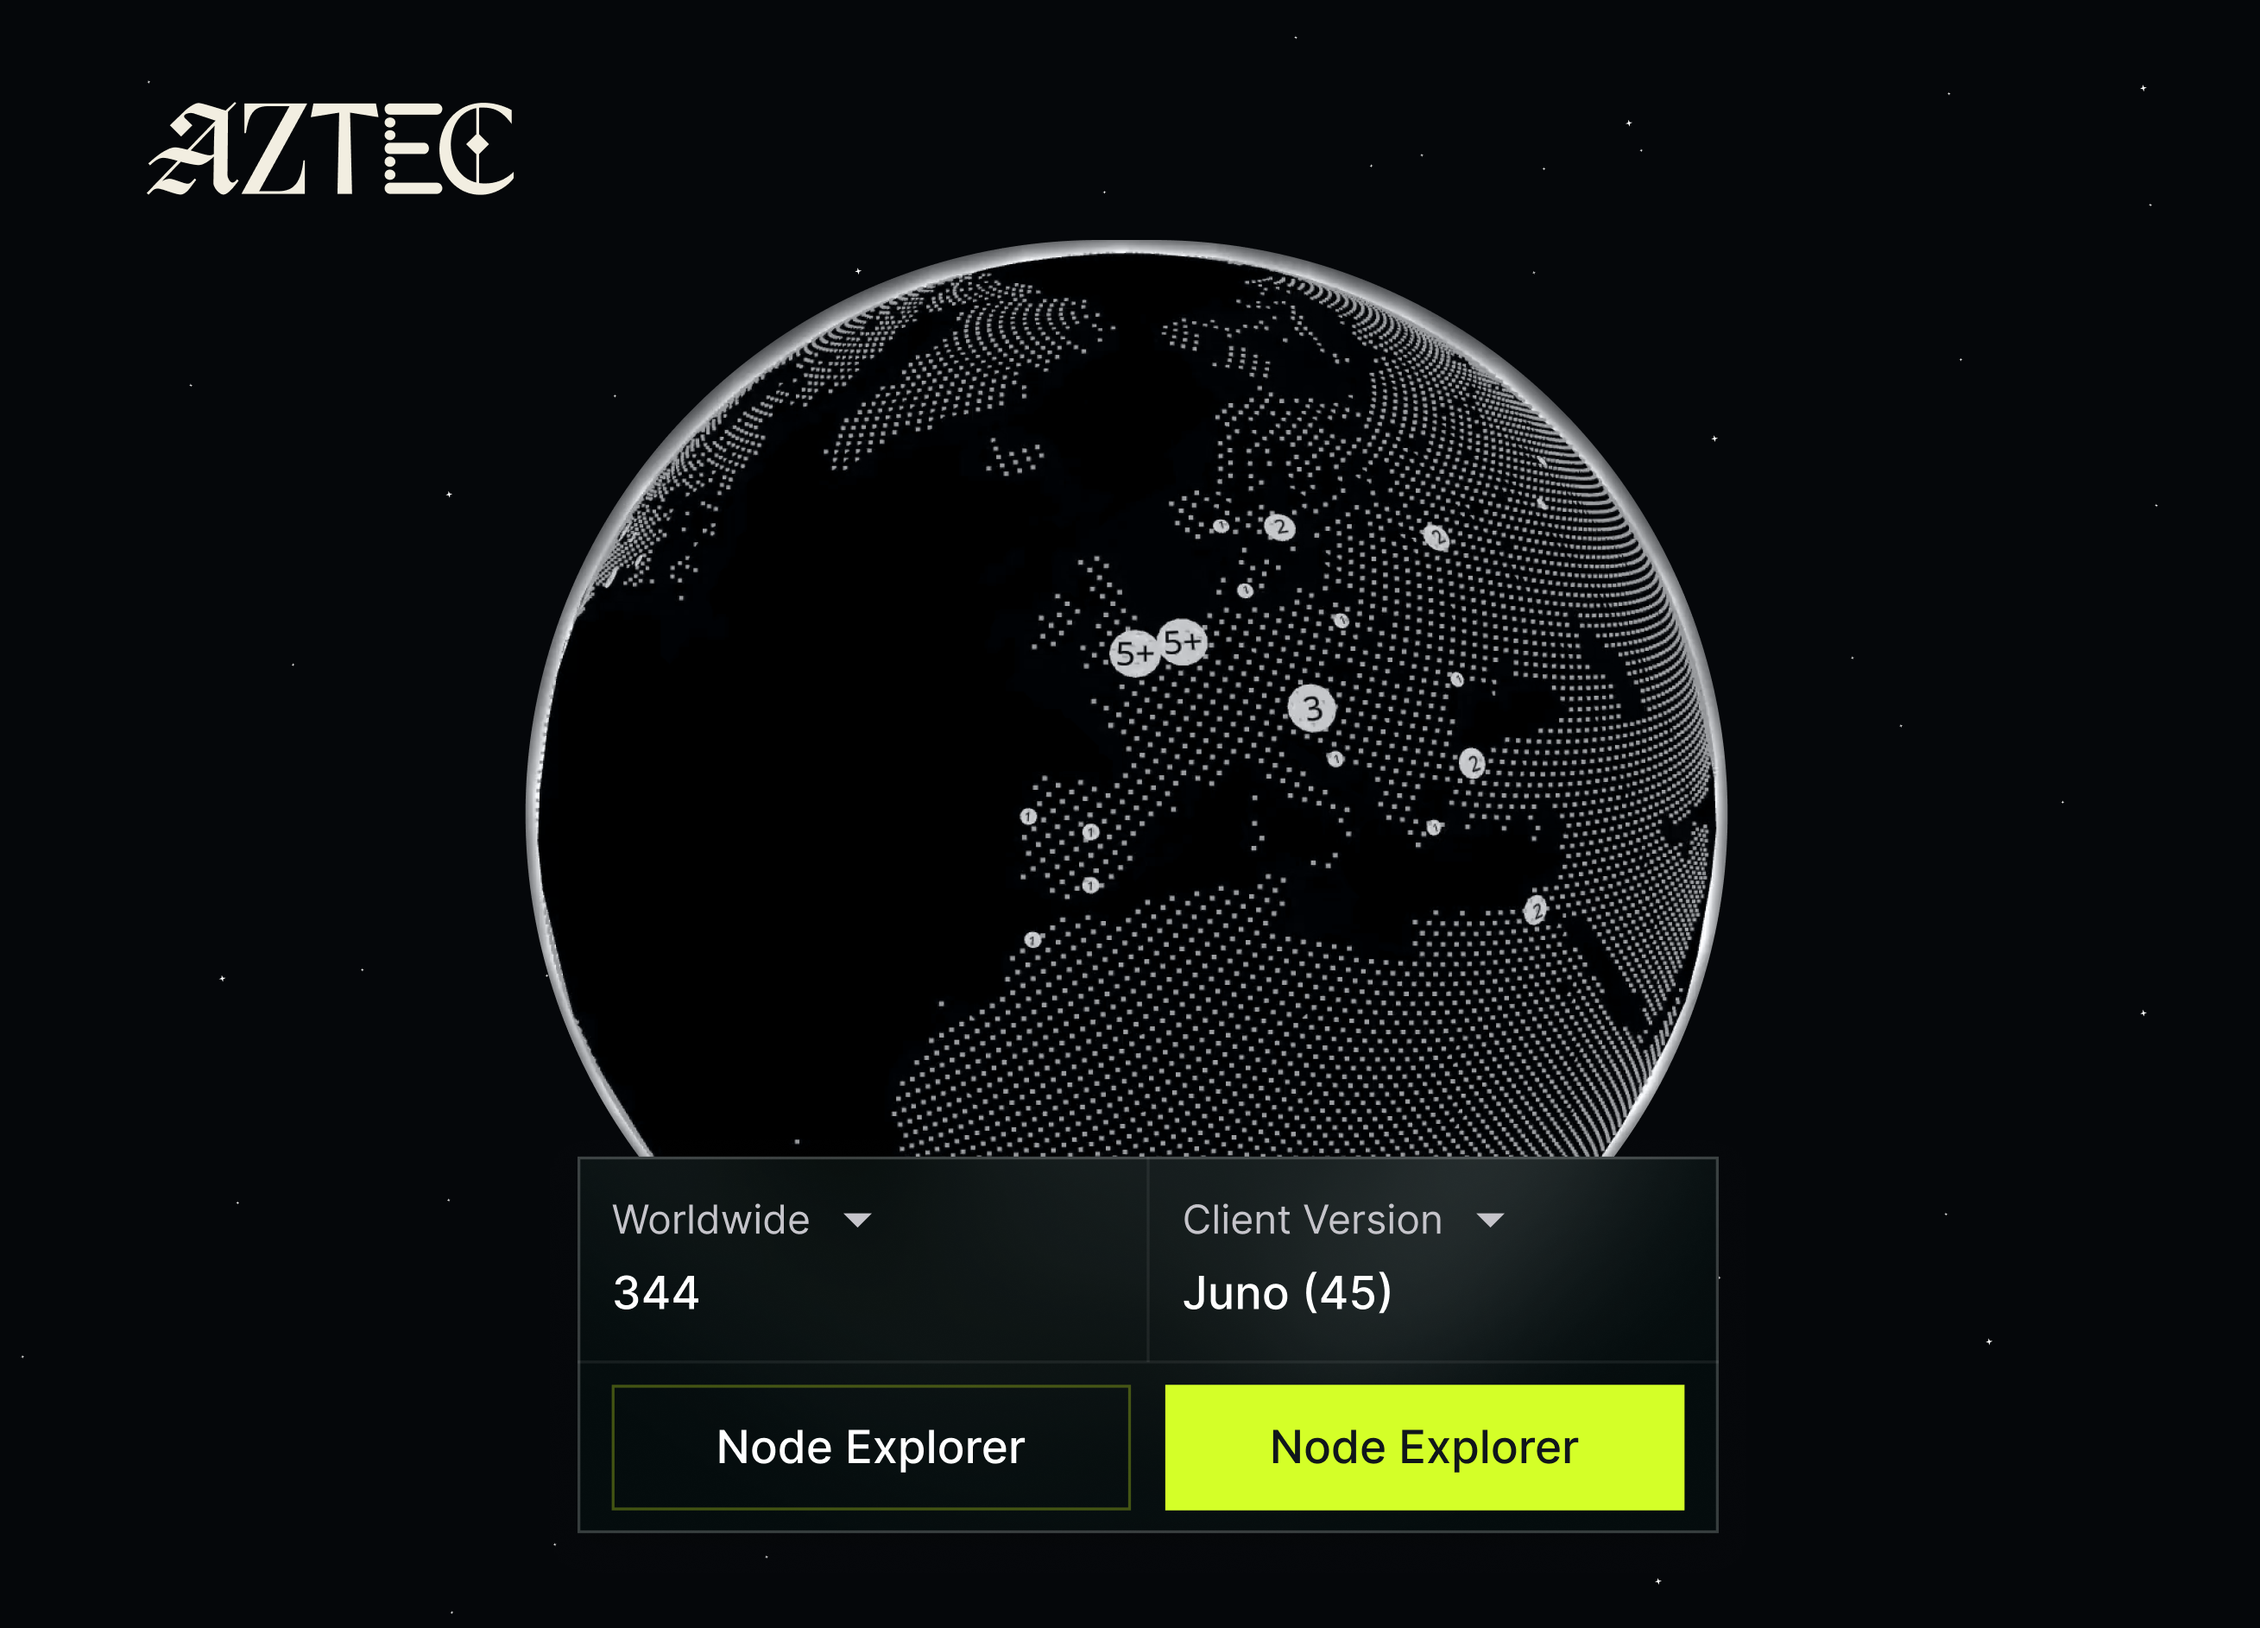
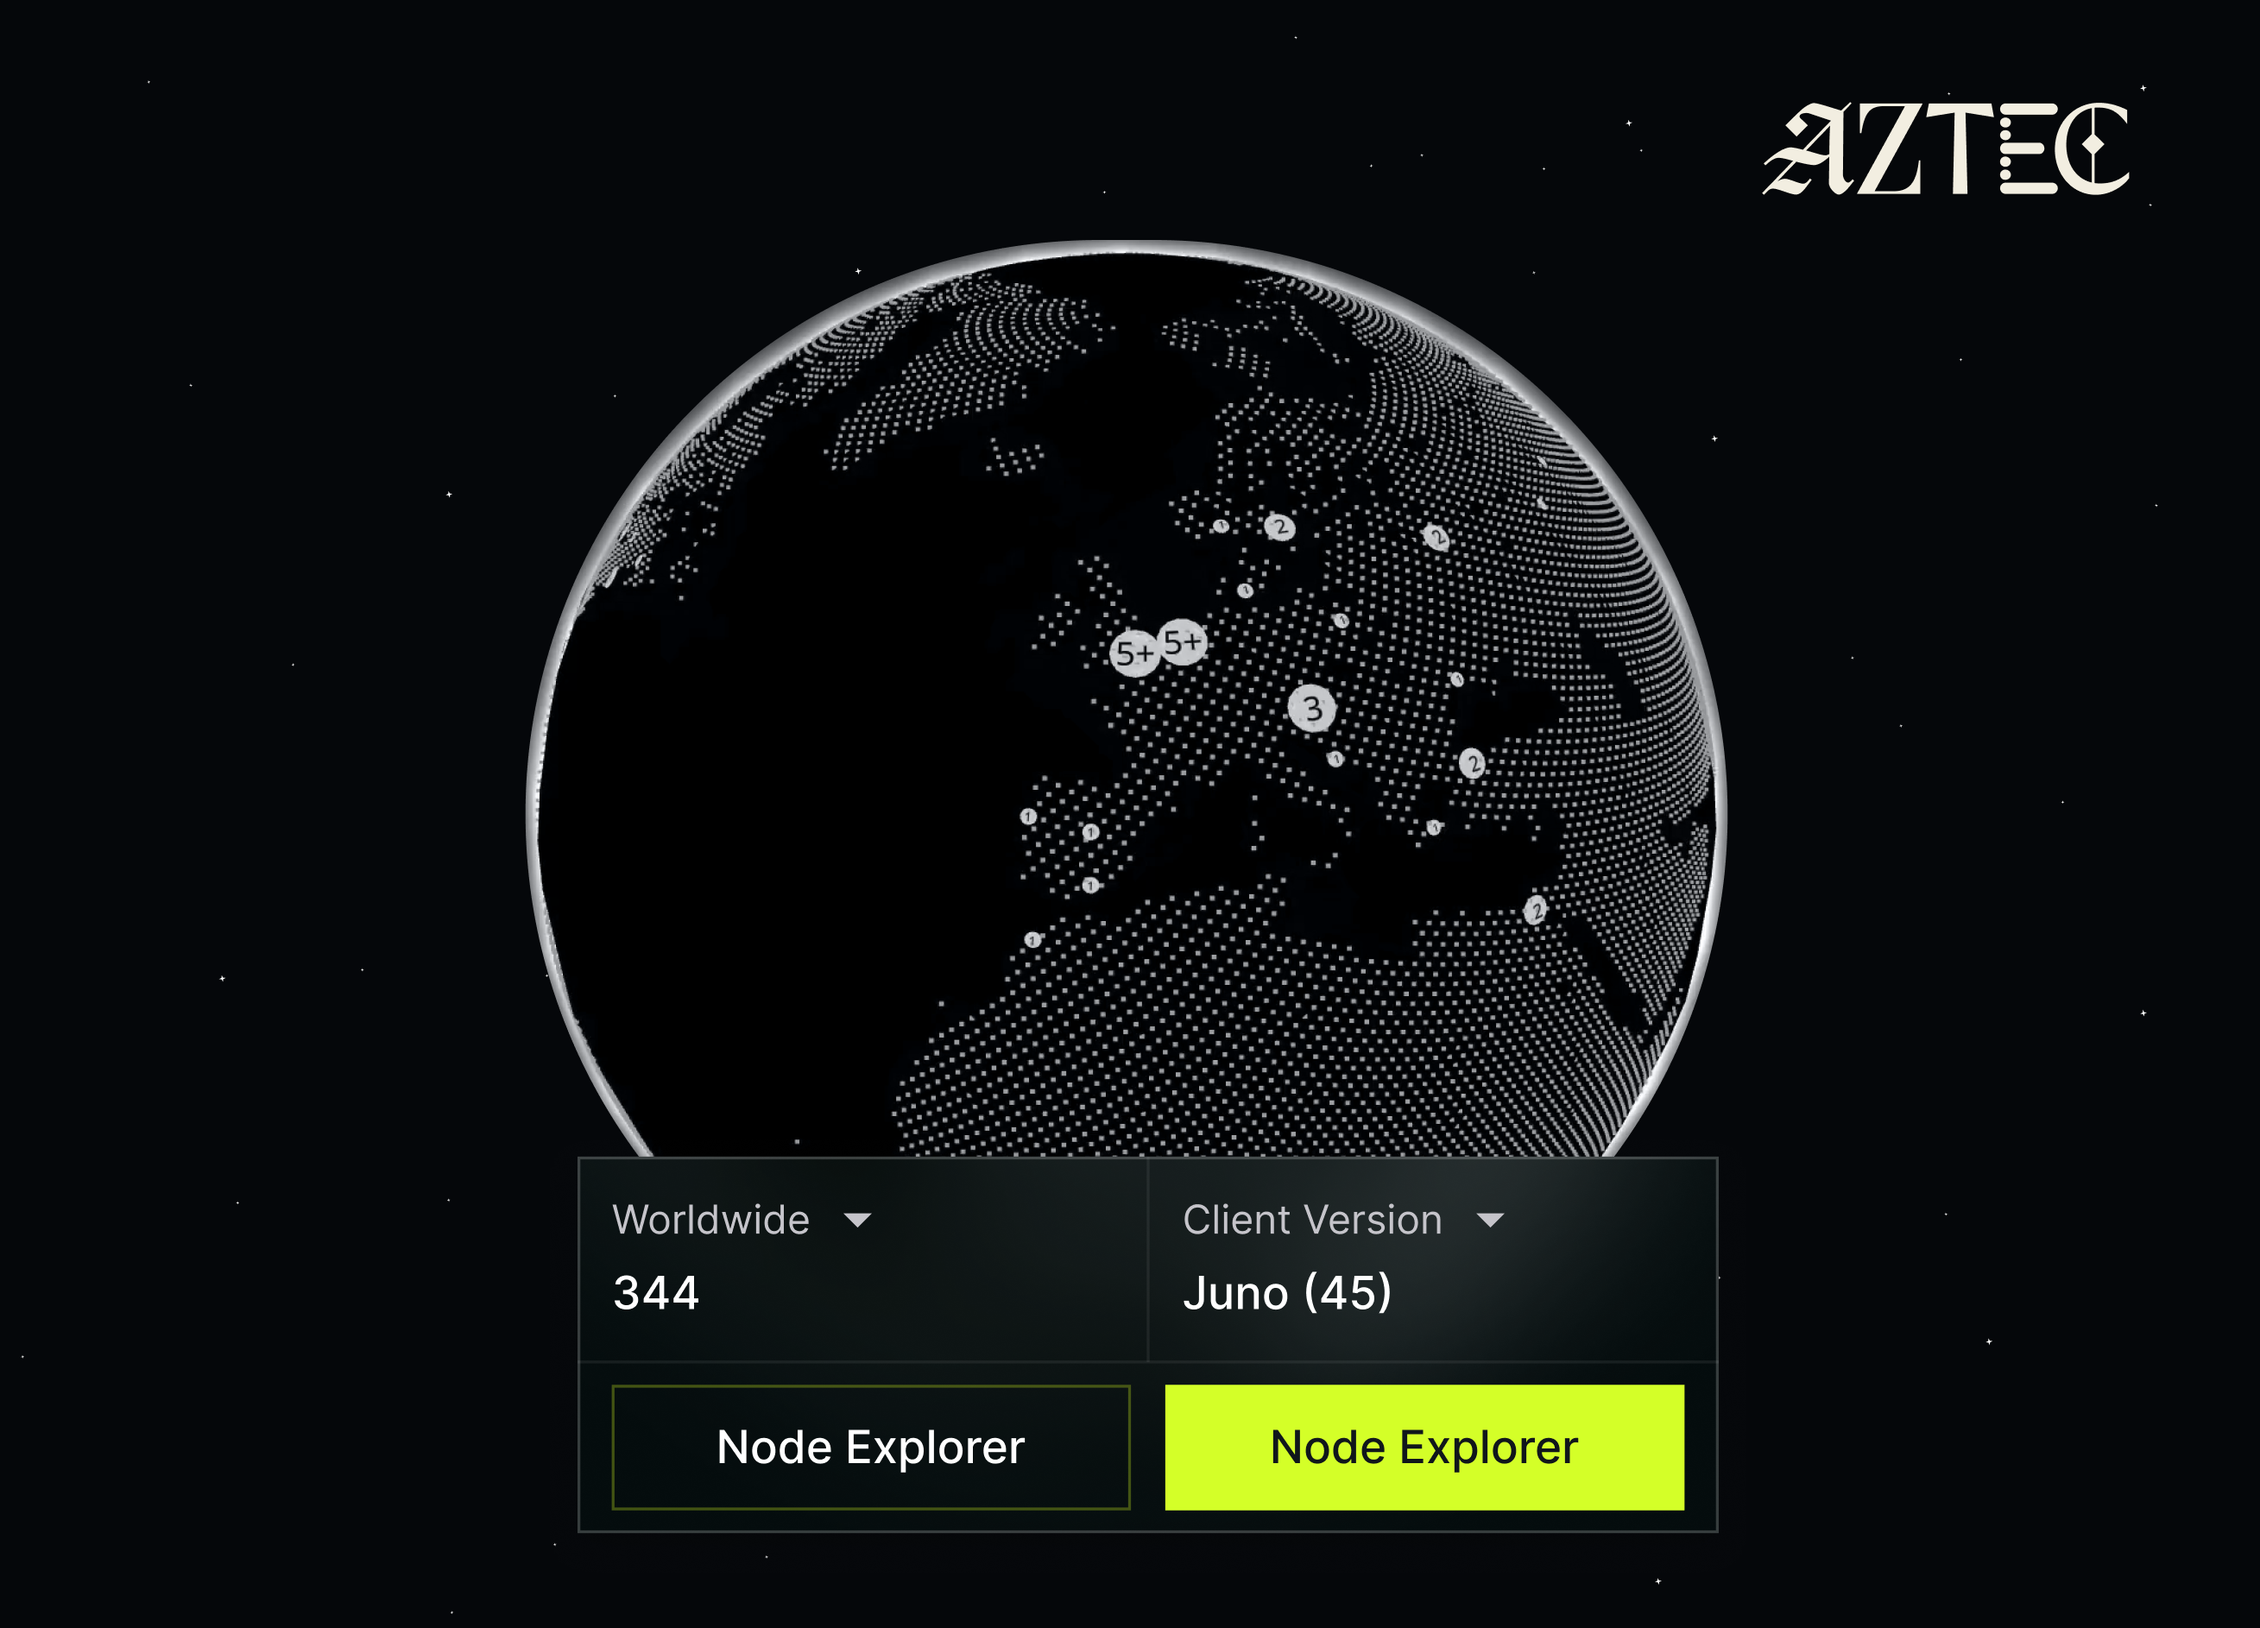
Update Aztec image and labels to Blockchain · Explorer

Changed region(s): [[0.7735, 0.0615, 0.9282, 0.123], [0.0619, 0.0615, 0.2166, 0.123]]

diff --git a/index.html b/index.html
@@ -181,7 +181,7 @@ height="0" width="0" style="display:none;visibility:hidden"></iframe></noscript>
           { num:'01', title:'Boop',            tagline:'Biometric payment',                      role:'Mobile · Payment',   year:'2026', image:'boop-riseshot.png',       fit:'cover' },
           { num:'02', title:'Quadrato',         tagline:'NFT Standards',                          role:'NFT · Blockchain',   year:'2023', image:'quadrato-cover.png',      fit:'cover' },
           { num:'03', title:'Towerbank',        tagline:'Cryptowallet pitch',                     role:'Finance · Crypto',   year:'2023', image:'towerbank-mobile.png',    fit:'cover' },
-          { num:'04', title:'Aztec Explorer',   tagline:'Real-time node network explorer',        role:'Product Design',     year:'2025', image:'aztec-mobile.png',        fit:'cover' },
+          { num:'04', title:'Aztec Explorer',   tagline:'Real-time node network explorer',        role:'Blockchain · Explorer', year:'2025', image:'aztec-mobile.png',     fit:'cover' },
           { num:'05', title:'Restaking.Info',   tagline:'DeFi restaking analytics dashboard',     role:'Product Design',     year:'2024', image:'restaking-riseshot.png',  fit:'cover' },
           { num:'06', title:'🔒 SyX._rx95_Rh',   tagline:'Structured DeFi vault platform',         role:'Product Design',     year:'2025', image:'syntropyx-portfolio.jpg', fit:'cover' },
           { num:'07', title:'🔒 SyX._rx95_Rh / Borrow', tagline:'Collateralised lending flow',   role:'Interaction Design', year:'2025', image:'syntropyx-borrowing.png', fit:'cover' },
